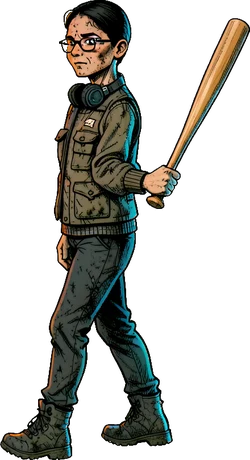
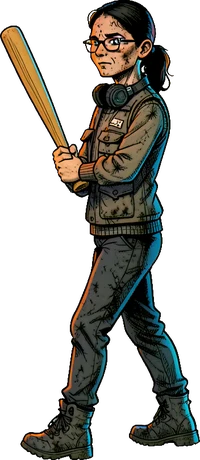
Priya: new bat sprite (Buddy's pick)

diff --git a/js/kit_gen.js b/js/kit_gen.js
@@ -1,1 +1,1 @@
-globalThis.GEN_KIT={"amir":{"base":{"ar":0.378,"cx":0.576,"hip":0.489,"mx":0.816,"my":0.552},"melee":{"ar":0.428,"cx":0.509,"hip":0.431,"mx":0.975,"my":0.165},"blunt":{"ar":0.507,"cx":0.424,"hip":0.356,"mx":0.923,"my":0.161},"pistol":{"ar":0.483,"cx":0.466,"hip":0.387,"mx":0.995,"my":0.17},"rifle":{"ar":0.622,"cx":0.484,"hip":0.451,"mx":0.976,"my":0.159},"bow":{"ar":0.476,"cx":0.459,"hip":0.384,"mx":0.995,"my":0.222},"damned":{"ar":0.376,"cx":0.578,"hip":0.486,"mx":0.971,"my":0.607}},"ana":{"base":{"ar":0.32,"cx":0.533,"hip":0.408,"mx":0.918,"my":0.53},"melee":{"ar":0.487,"cx":0.389,"hip":0.295,"mx":0.924,"my":0.163},"blunt":{"ar":0.45,"cx":0.328,"hip":0.343,"mx":0.768,"my":0.161},"pistol":{"ar":0.48,"cx":0.397,"hip":0.299,"mx":0.995,"my":0.243},"rifle":{"ar":0.52,"cx":0.341,"hip":0.289,"mx":0.858,"my":0.159},"bow":{"ar":0.493,"cx":0.296,"hip":0.3,"mx":0.996,"my":0.209},"damned":{"ar":0.339,"cx":0.503,"hip":0.385,"mx":0.994,"my":0.55}},"bea":{"base":{"ar":0.441,"cx":0.505,"hip":0.468,"mx":0.798,"my":0.554},"melee":{"ar":0.489,"cx":0.452,"hip":0.409,"mx":0.956,"my":0.167},"blunt":{"ar":0.526,"cx":0.426,"hip":0.388,"mx":0.884,"my":0.161},"pistol":{"ar":0.513,"cx":0.451,"hip":0.415,"mx":0.996,"my":0.233},"rifle":{"ar":0.524,"cx":0.404,"hip":0.361,"mx":0.83,"my":0.159},"bow":{"ar":0.522,"cx":0.417,"hip":0.375,"mx":0.996,"my":0.217},"damned":{"ar":0.446,"cx":0.505,"hip":0.463,"mx":0.932,"my":0.6}},"boone":{"base":{"ar":0.396,"cx":0.538,"hip":0.445,"mx":0.857,"my":0.515},"melee":{"ar":0.557,"cx":0.407,"hip":0.359,"mx":0.918,"my":0.163},"blunt":{"ar":0.439,"cx":0.49,"hip":0.406,"mx":0.926,"my":0.167},"pistol":{"ar":0.517,"cx":0.349,"hip":0.311,"mx":0.987,"my":0.161},"rifle":{"ar":0.548,"cx":0.426,"hip":0.329,"mx":0.996,"my":0.189},"bow":{"ar":0.502,"cx":0.413,"hip":0.346,"mx":0.996,"my":0.226},"damned":{"ar":0.396,"cx":0.538,"hip":0.445,"mx":0.94,"my":0.543}},"cal":{"base":{"ar":0.435,"cx":0.551,"hip":0.43,"mx":0.93,"my":0.537},"melee":{"ar":0.53,"cx":0.424,"hip":0.385,"mx":0.984,"my":0.165},"blunt":{"ar":0.509,"cx":0.4,"hip":0.35,"mx":0.893,"my":0.163},"pistol":{"ar":0.58,"cx":0.395,"hip":0.36,"mx":0.996,"my":0.185},"rifle":{"ar":0.565,"cx":0.429,"hip":0.35,"mx":0.996,"my":0.18},"bow":{"ar":0.541,"cx":0.39,"hip":0.378,"mx":0.92,"my":0.198},"damned":{"ar":0.435,"cx":0.441,"hip":0.48,"mx":0.995,"my":0.37}},"cole":{"base":{"ar":0.339,"cx":0.508,"hip":0.436,"mx":0.814,"my":0.543},"melee":{"ar":0.443,"cx":0.4,"hip":0.333,"mx":0.936,"my":0.163},"blunt":{"ar":0.565,"cx":0.414,"hip":0.362,"mx":0.842,"my":0.161},"pistol":{"ar":0.47,"cx":0.42,"hip":0.356,"mx":0.995,"my":0.22},"rifle":{"ar":0.504,"cx":0.395,"hip":0.341,"mx":0.948,"my":0.159},"bow":{"ar":0.537,"cx":0.424,"hip":0.348,"mx":0.996,"my":0.226},"damned":{"ar":0.474,"cx":0.512,"hip":0.381,"mx":0.807,"my":0.357}},"dale":{"base":{"ar":0.376,"cx":0.564,"hip":0.497,"mx":0.994,"my":0.535},"melee":{"ar":0.541,"cx":0.373,"hip":0.329,"mx":0.932,"my":0.161},"blunt":{"ar":0.448,"cx":0.388,"hip":0.33,"mx":0.874,"my":0.163},"pistol":{"ar":0.561,"cx":0.36,"hip":0.318,"mx":0.996,"my":0.202},"rifle":{"ar":0.526,"cx":0.343,"hip":0.318,"mx":0.897,"my":0.159},"bow":{"ar":0.535,"cx":0.268,"hip":0.224,"mx":0.996,"my":0.25},"damned":{"ar":0.37,"cx":0.559,"hip":0.494,"mx":0.994,"my":0.552}},"emil":{"base":{"ar":0.346,"cx":0.528,"hip":0.478,"mx":0.912,"my":0.552},"melee":{"ar":0.522,"cx":0.432,"hip":0.354,"mx":0.883,"my":0.161},"blunt":{"ar":0.526,"cx":0.379,"hip":0.298,"mx":0.802,"my":0.161},"pistol":{"ar":0.543,"cx":0.407,"hip":0.328,"mx":0.992,"my":0.163},"rifle":{"ar":0.511,"cx":0.419,"hip":0.319,"mx":0.86,"my":0.159},"bow":{"ar":0.528,"cx":0.429,"hip":0.44,"mx":0.996,"my":0.252},"damned":{"ar":0.346,"cx":0.528,"hip":0.478,"mx":0.981,"my":0.576}},"grace":{"base":{"ar":0.339,"cx":0.503,"hip":0.41,"mx":0.897,"my":0.541},"melee":{"ar":0.463,"cx":0.405,"hip":0.31,"mx":0.939,"my":0.163},"blunt":{"ar":0.446,"cx":0.383,"hip":0.312,"mx":0.917,"my":0.163},"pistol":{"ar":0.487,"cx":0.367,"hip":0.312,"mx":0.996,"my":0.178},"rifle":{"ar":0.543,"cx":0.352,"hip":0.272,"mx":0.776,"my":0.161},"bow":{"ar":0.463,"cx":0.415,"hip":0.352,"mx":0.995,"my":0.243},"damned":{"ar":0.339,"cx":0.507,"hip":0.417,"mx":0.974,"my":0.578}},"gus":{"base":{"ar":0.326,"cx":0.54,"hip":0.433,"mx":0.927,"my":0.55},"melee":{"ar":0.498,"cx":0.451,"hip":0.358,"mx":0.939,"my":0.163},"blunt":{"ar":0.437,"cx":0.4,"hip":0.323,"mx":0.896,"my":0.163},"pistol":{"ar":0.541,"cx":0.419,"hip":0.333,"mx":0.996,"my":0.204},"rifle":{"ar":0.548,"cx":0.419,"hip":0.341,"mx":0.889,"my":0.159},"bow":{"ar":0.543,"cx":0.42,"hip":0.576,"mx":0.996,"my":0.241},"damned":{"ar":0.326,"cx":0.537,"hip":0.433,"mx":0.947,"my":0.548}},"hank":{"base":{"ar":0.407,"cx":0.427,"hip":0.412,"mx":0.995,"my":0.43},"melee":{"ar":0.485,"cx":0.352,"hip":0.345,"mx":0.964,"my":0.196},"blunt":{"ar":0.559,"cx":0.432,"hip":0.339,"mx":0.961,"my":0.163},"pistol":{"ar":0.524,"cx":0.332,"hip":0.324,"mx":0.996,"my":0.165},"rifle":{"ar":0.476,"cx":0.376,"hip":0.365,"mx":0.895,"my":0.159},"bow":{"ar":0.554,"cx":0.403,"hip":0.369,"mx":0.996,"my":0.224},"damned":{"ar":0.448,"cx":0.48,"hip":0.471,"mx":0.995,"my":0.428}},"isaac":{"base":{"ar":0.367,"cx":0.553,"hip":0.491,"mx":0.888,"my":0.53},"melee":{"ar":0.55,"cx":0.36,"hip":0.514,"mx":0.921,"my":0.161},"blunt":{"ar":0.507,"cx":0.401,"hip":0.356,"mx":0.888,"my":0.163},"pistol":{"ar":0.552,"cx":0.356,"hip":0.512,"mx":0.969,"my":0.159},"rifle":{"ar":0.617,"cx":0.401,"hip":0.349,"mx":0.923,"my":0.159},"bow":{"ar":0.528,"cx":0.403,"hip":0.362,"mx":0.996,"my":0.28},"damned":{"ar":0.365,"cx":0.554,"hip":0.494,"mx":0.923,"my":0.546}},"ivy":{"base":{"ar":0.378,"cx":0.518,"hip":0.431,"mx":0.805,"my":0.533},"melee":{"ar":0.493,"cx":0.537,"hip":0.441,"mx":0.996,"my":0.233},"blunt":{"ar":0.439,"cx":0.446,"hip":0.371,"mx":0.896,"my":0.165},"pistol":{"ar":0.548,"cx":0.484,"hip":0.397,"mx":0.996,"my":0.213},"rifle":{"ar":0.498,"cx":0.432,"hip":0.332,"mx":0.996,"my":0.165},"bow":{"ar":0.485,"cx":0.374,"hip":0.327,"mx":0.996,"my":0.261},"damned":{"ar":0.378,"cx":0.518,"hip":0.431,"mx":0.805,"my":0.539}},"jo":{"base":{"ar":0.276,"cx":0.504,"hip":0.402,"mx":0.843,"my":0.535},"melee":{"ar":0.43,"cx":0.354,"hip":0.288,"mx":0.96,"my":0.2},"blunt":{"ar":0.457,"cx":0.302,"hip":0.243,"mx":0.81,"my":0.161},"pistol":{"ar":0.487,"cx":0.312,"hip":0.254,"mx":0.996,"my":0.183},"rifle":{"ar":0.5,"cx":0.37,"hip":0.278,"mx":0.996,"my":0.222},"bow":{"ar":0.509,"cx":0.476,"hip":0.397,"mx":0.996,"my":0.222},"damned":{"ar":0.289,"cx":0.526,"hip":0.436,"mx":0.94,"my":0.543}},"june":{"base":{"ar":0.307,"cx":0.525,"hip":0.468,"mx":0.915,"my":0.517},"melee":{"ar":0.487,"cx":0.362,"hip":0.326,"mx":0.933,"my":0.161},"blunt":{"ar":0.465,"cx":0.334,"hip":0.285,"mx":0.874,"my":0.163},"pistol":{"ar":0.437,"cx":0.338,"hip":0.308,"mx":0.995,"my":0.217},"rifle":{"ar":0.528,"cx":0.346,"hip":0.305,"mx":0.84,"my":0.159},"bow":{"ar":0.541,"cx":0.44,"hip":0.402,"mx":0.996,"my":0.224},"damned":{"ar":0.361,"cx":0.566,"hip":0.512,"mx":0.994,"my":0.598}},"kez":{"base":{"ar":0.313,"cx":0.497,"hip":0.451,"mx":0.882,"my":0.548},"melee":{"ar":0.433,"cx":0.354,"hip":0.387,"mx":0.92,"my":0.163},"blunt":{"ar":0.496,"cx":0.316,"hip":0.338,"mx":0.838,"my":0.161},"pistol":{"ar":0.476,"cx":0.41,"hip":0.384,"mx":0.986,"my":0.161},"rifle":{"ar":0.561,"cx":0.409,"hip":0.36,"mx":0.996,"my":0.178},"bow":{"ar":0.58,"cx":0.379,"hip":0.378,"mx":0.996,"my":0.228},"damned":{"ar":0.317,"cx":0.497,"hip":0.459,"mx":0.938,"my":0.583}},"kim":{"base":{"ar":0.341,"cx":0.541,"hip":0.433,"mx":0.911,"my":0.543},"melee":{"ar":0.476,"cx":0.398,"hip":0.352,"mx":0.954,"my":0.163},"blunt":{"ar":0.467,"cx":0.398,"hip":0.316,"mx":0.898,"my":0.165},"pistol":{"ar":0.502,"cx":0.377,"hip":0.333,"mx":0.996,"my":0.211},"rifle":{"ar":0.504,"cx":0.349,"hip":0.297,"mx":0.996,"my":0.198},"bow":{"ar":0.513,"cx":0.375,"hip":0.309,"mx":0.996,"my":0.261},"damned":{"ar":0.407,"cx":0.529,"hip":0.439,"mx":0.995,"my":0.607}},"lena":{"base":{"ar":0.333,"cx":0.523,"hip":0.49,"mx":0.882,"my":0.528},"melee":{"ar":0.472,"cx":0.462,"hip":0.327,"mx":0.912,"my":0.163},"blunt":{"ar":0.45,"cx":0.387,"hip":0.362,"mx":0.865,"my":0.161},"pistol":{"ar":0.435,"cx":0.391,"hip":0.3,"mx":0.995,"my":0.17},"rifle":{"ar":0.5,"cx":0.388,"hip":0.291,"mx":0.722,"my":0.159},"bow":{"ar":0.57,"cx":0.264,"hip":0.233,"mx":0.996,"my":0.22},"damned":{"ar":0.335,"cx":0.526,"hip":0.487,"mx":0.968,"my":0.565}},"lupe":{"base":{"ar":0.304,"cx":0.571,"hip":0.507,"mx":0.993,"my":0.533},"melee":{"ar":0.45,"cx":0.343,"hip":0.29,"mx":0.932,"my":0.163},"blunt":{"ar":0.396,"cx":0.437,"hip":0.588,"mx":0.951,"my":0.172},"pistol":{"ar":0.461,"cx":0.292,"hip":0.443,"mx":0.995,"my":0.202},"rifle":{"ar":0.583,"cx":0.468,"hip":0.623,"mx":0.959,"my":0.159},"bow":{"ar":0.457,"cx":0.34,"hip":0.495,"mx":0.995,"my":0.224},"damned":{"ar":0.359,"cx":0.494,"hip":0.436,"mx":0.994,"my":0.589}},"mae":{"base":{"ar":0.311,"cx":0.538,"hip":0.685,"mx":0.993,"my":0.546},"melee":{"ar":0.476,"cx":0.393,"hip":0.347,"mx":0.945,"my":0.172},"blunt":{"ar":0.448,"cx":0.379,"hip":0.529,"mx":0.898,"my":0.161},"pistol":{"ar":0.515,"cx":0.363,"hip":0.321,"mx":0.962,"my":0.159},"rifle":{"ar":0.572,"cx":0.382,"hip":0.357,"mx":0.996,"my":0.185},"bow":{"ar":0.507,"cx":0.378,"hip":0.528,"mx":0.996,"my":0.246},"damned":{"ar":0.352,"cx":0.475,"hip":0.623,"mx":0.994,"my":0.598}},"marta":{"base":{"ar":0.324,"cx":0.488,"hip":0.463,"mx":0.993,"my":0.502},"melee":{"ar":0.446,"cx":0.454,"hip":0.371,"mx":0.873,"my":0.163},"blunt":{"ar":0.426,"cx":0.384,"hip":0.403,"mx":0.77,"my":0.161},"pistol":{"ar":0.491,"cx":0.381,"hip":0.363,"mx":0.996,"my":0.202},"rifle":{"ar":0.476,"cx":0.388,"hip":0.416,"mx":0.995,"my":0.163},"bow":{"ar":0.524,"cx":0.382,"hip":0.398,"mx":0.996,"my":0.237},"damned":{"ar":0.346,"cx":0.457,"hip":0.434,"mx":0.994,"my":0.57}},"nia":{"base":{"ar":0.337,"cx":0.532,"hip":0.458,"mx":0.858,"my":0.559},"melee":{"ar":0.457,"cx":0.39,"hip":0.338,"mx":0.905,"my":0.163},"blunt":{"ar":0.389,"cx":0.458,"hip":0.391,"mx":0.994,"my":0.407},"pistol":{"ar":0.493,"cx":0.291,"hip":0.26,"mx":0.996,"my":0.165},"rifle":{"ar":0.498,"cx":0.393,"hip":0.31,"mx":0.978,"my":0.159},"bow":{"ar":0.667,"cx":0.383,"hip":0.322,"mx":0.997,"my":0.285},"damned":{"ar":0.337,"cx":0.532,"hip":0.458,"mx":0.974,"my":0.583}},"owen":{"base":{"ar":0.383,"cx":0.527,"hip":0.443,"mx":0.892,"my":0.502},"melee":{"ar":0.43,"cx":0.478,"hip":0.374,"mx":0.965,"my":0.172},"blunt":{"ar":0.498,"cx":0.409,"hip":0.341,"mx":0.878,"my":0.163},"pistol":{"ar":0.539,"cx":0.4,"hip":0.363,"mx":0.996,"my":0.193},"rifle":{"ar":0.543,"cx":0.368,"hip":0.316,"mx":0.996,"my":0.167},"bow":{"ar":0.511,"cx":0.433,"hip":0.362,"mx":0.996,"my":0.285},"damned":{"ar":0.52,"cx":0.373,"hip":0.318,"mx":0.669,"my":0.609}},"priya":{"base":{"ar":0.376,"cx":0.5,"hip":0.457,"mx":0.798,"my":0.537},"melee":{"ar":0.476,"cx":0.392,"hip":0.429,"mx":0.913,"my":0.163},"blunt":{"ar":0.543,"cx":0.342,"hip":0.372,"mx":0.916,"my":0.163},"pistol":{"ar":0.476,"cx":0.392,"hip":0.374,"mx":0.995,"my":0.165},"rifle":{"ar":0.487,"cx":0.346,"hip":0.281,"mx":0.888,"my":0.161},"bow":{"ar":0.53,"cx":0.366,"hip":0.262,"mx":0.996,"my":0.25},"damned":{"ar":0.376,"cx":0.5,"hip":0.457,"mx":0.948,"my":0.587}},"rosa":{"base":{"ar":0.374,"cx":0.585,"hip":0.477,"mx":0.994,"my":0.554},"melee":{"ar":0.489,"cx":0.431,"hip":0.364,"mx":0.933,"my":0.165},"blunt":{"ar":0.42,"cx":0.518,"hip":0.425,"mx":0.995,"my":0.339},"pistol":{"ar":0.511,"cx":0.36,"hip":0.515,"mx":0.996,"my":0.189},"rifle":{"ar":0.563,"cx":0.335,"hip":0.282,"mx":0.861,"my":0.159},"bow":{"ar":0.517,"cx":0.397,"hip":0.319,"mx":0.996,"my":0.257},"damned":{"ar":0.409,"cx":0.535,"hip":0.436,"mx":0.995,"my":0.58}},"ruth":{"base":{"ar":0.324,"cx":0.543,"hip":0.47,"mx":0.993,"my":0.52},"melee":{"ar":0.439,"cx":0.31,"hip":0.351,"mx":0.876,"my":0.161},"blunt":{"ar":0.487,"cx":0.321,"hip":0.366,"mx":0.786,"my":0.161},"pistol":{"ar":0.511,"cx":0.302,"hip":0.455,"mx":0.996,"my":0.176},"rifle":{"ar":0.537,"cx":0.36,"hip":0.324,"mx":0.753,"my":0.17},"bow":{"ar":0.507,"cx":0.386,"hip":0.416,"mx":0.996,"my":0.233},"damned":{"ar":0.407,"cx":0.435,"hip":0.38,"mx":0.995,"my":0.596}},"sam":{"base":{"ar":0.391,"cx":0.496,"hip":0.428,"mx":0.961,"my":0.476},"melee":{"ar":0.485,"cx":0.389,"hip":0.341,"mx":0.906,"my":0.161},"blunt":{"ar":0.435,"cx":0.445,"hip":0.385,"mx":0.995,"my":0.291},"pistol":{"ar":0.461,"cx":0.422,"hip":0.33,"mx":0.995,"my":0.167},"rifle":{"ar":0.552,"cx":0.329,"hip":0.268,"mx":0.78,"my":0.163},"bow":{"ar":0.55,"cx":0.365,"hip":0.32,"mx":0.996,"my":0.222},"damned":{"ar":0.404,"cx":0.516,"hip":0.452,"mx":0.968,"my":0.493}},"sita":{"base":{"ar":0.309,"cx":0.599,"hip":0.746,"mx":0.993,"my":0.5},"melee":{"ar":0.53,"cx":0.32,"hip":0.475,"mx":0.951,"my":0.165},"blunt":{"ar":0.472,"cx":0.389,"hip":0.544,"mx":0.917,"my":0.163},"pistol":{"ar":0.563,"cx":0.301,"hip":0.456,"mx":0.996,"my":0.202},"rifle":{"ar":0.53,"cx":0.337,"hip":0.311,"mx":0.721,"my":0.167},"bow":{"ar":0.57,"cx":0.311,"hip":0.466,"mx":0.996,"my":0.241},"damned":{"ar":0.383,"cx":0.48,"hip":0.631,"mx":0.994,"my":0.565}},"tasha":{"base":{"ar":0.307,"cx":0.499,"hip":0.404,"mx":0.794,"my":0.537},"melee":{"ar":0.522,"cx":0.418,"hip":0.325,"mx":0.879,"my":0.176},"blunt":{"ar":0.504,"cx":0.335,"hip":0.276,"mx":0.853,"my":0.161},"pistol":{"ar":0.543,"cx":0.4,"hip":0.312,"mx":0.892,"my":0.17},"rifle":{"ar":0.524,"cx":0.364,"hip":0.295,"mx":0.838,"my":0.159},"bow":{"ar":0.554,"cx":0.378,"hip":0.286,"mx":0.996,"my":0.257},"damned":{"ar":0.415,"cx":0.573,"hip":0.461,"mx":0.895,"my":0.563}},"theo":{"base":{"ar":0.365,"cx":0.574,"hip":0.506,"mx":0.923,"my":0.522},"melee":{"ar":0.47,"cx":0.416,"hip":0.361,"mx":0.894,"my":0.163},"blunt":{"ar":0.43,"cx":0.485,"hip":0.424,"mx":0.934,"my":0.167},"pistol":{"ar":0.552,"cx":0.307,"hip":0.272,"mx":0.996,"my":0.176},"rifle":{"ar":0.53,"cx":0.342,"hip":0.275,"mx":0.746,"my":0.165},"bow":{"ar":0.537,"cx":0.399,"hip":0.348,"mx":0.996,"my":0.209},"damned":{"ar":0.37,"cx":0.565,"hip":0.5,"mx":0.994,"my":0.557}},"tomas":{"base":{"ar":0.291,"cx":0.496,"hip":0.418,"mx":0.888,"my":0.546},"melee":{"ar":0.487,"cx":0.392,"hip":0.353,"mx":0.897,"my":0.161},"blunt":{"ar":0.38,"cx":0.377,"hip":0.314,"mx":0.903,"my":0.163},"pistol":{"ar":0.472,"cx":0.402,"hip":0.359,"mx":0.995,"my":0.163},"rifle":{"ar":0.52,"cx":0.369,"hip":0.322,"mx":0.736,"my":0.159},"bow":{"ar":0.465,"cx":0.403,"hip":0.36,"mx":0.995,"my":0.22},"damned":{"ar":0.296,"cx":0.489,"hip":0.404,"mx":0.993,"my":0.574}},"vic":{"base":{"ar":0.374,"cx":0.565,"hip":0.471,"mx":0.919,"my":0.539},"melee":{"ar":0.504,"cx":0.393,"hip":0.345,"mx":0.892,"my":0.161},"blunt":{"ar":0.459,"cx":0.467,"hip":0.384,"mx":0.905,"my":0.165},"pistol":{"ar":0.5,"cx":0.397,"hip":0.348,"mx":0.996,"my":0.235},"rifle":{"ar":0.52,"cx":0.351,"hip":0.314,"mx":0.996,"my":0.176},"bow":{"ar":0.526,"cx":0.411,"hip":0.368,"mx":0.996,"my":0.25},"damned":{"ar":0.376,"cx":0.569,"hip":0.468,"mx":0.936,"my":0.554}},"wen":{"base":{"ar":0.317,"cx":0.554,"hip":0.479,"mx":0.945,"my":0.53},"melee":{"ar":0.48,"cx":0.378,"hip":0.312,"mx":0.878,"my":0.161},"blunt":{"ar":0.376,"cx":0.37,"hip":0.405,"mx":0.971,"my":0.285},"pistol":{"ar":0.504,"cx":0.403,"hip":0.341,"mx":0.996,"my":0.176},"rifle":{"ar":0.485,"cx":0.345,"hip":0.377,"mx":0.816,"my":0.159},"bow":{"ar":0.493,"cx":0.381,"hip":0.396,"mx":0.996,"my":0.233},"damned":{"ar":0.346,"cx":0.586,"hip":0.522,"mx":0.994,"my":0.589}}};
+globalThis.GEN_KIT={"amir":{"base":{"ar":0.378,"cx":0.576,"hip":0.489,"mx":0.816,"my":0.552},"melee":{"ar":0.428,"cx":0.509,"hip":0.431,"mx":0.975,"my":0.165},"blunt":{"ar":0.507,"cx":0.424,"hip":0.356,"mx":0.923,"my":0.161},"pistol":{"ar":0.483,"cx":0.466,"hip":0.387,"mx":0.995,"my":0.17},"rifle":{"ar":0.622,"cx":0.484,"hip":0.451,"mx":0.976,"my":0.159},"bow":{"ar":0.476,"cx":0.459,"hip":0.384,"mx":0.995,"my":0.222},"damned":{"ar":0.376,"cx":0.578,"hip":0.486,"mx":0.971,"my":0.607}},"ana":{"base":{"ar":0.32,"cx":0.533,"hip":0.408,"mx":0.918,"my":0.53},"melee":{"ar":0.487,"cx":0.389,"hip":0.295,"mx":0.924,"my":0.163},"blunt":{"ar":0.45,"cx":0.328,"hip":0.343,"mx":0.768,"my":0.161},"pistol":{"ar":0.48,"cx":0.397,"hip":0.299,"mx":0.995,"my":0.243},"rifle":{"ar":0.52,"cx":0.341,"hip":0.289,"mx":0.858,"my":0.159},"bow":{"ar":0.493,"cx":0.296,"hip":0.3,"mx":0.996,"my":0.209},"damned":{"ar":0.339,"cx":0.503,"hip":0.385,"mx":0.994,"my":0.55}},"bea":{"base":{"ar":0.441,"cx":0.505,"hip":0.468,"mx":0.798,"my":0.554},"melee":{"ar":0.489,"cx":0.452,"hip":0.409,"mx":0.956,"my":0.167},"blunt":{"ar":0.526,"cx":0.426,"hip":0.388,"mx":0.884,"my":0.161},"pistol":{"ar":0.513,"cx":0.451,"hip":0.415,"mx":0.996,"my":0.233},"rifle":{"ar":0.524,"cx":0.404,"hip":0.361,"mx":0.83,"my":0.159},"bow":{"ar":0.522,"cx":0.417,"hip":0.375,"mx":0.996,"my":0.217},"damned":{"ar":0.446,"cx":0.505,"hip":0.463,"mx":0.932,"my":0.6}},"boone":{"base":{"ar":0.396,"cx":0.538,"hip":0.445,"mx":0.857,"my":0.515},"melee":{"ar":0.557,"cx":0.407,"hip":0.359,"mx":0.918,"my":0.163},"blunt":{"ar":0.439,"cx":0.49,"hip":0.406,"mx":0.926,"my":0.167},"pistol":{"ar":0.517,"cx":0.349,"hip":0.311,"mx":0.987,"my":0.161},"rifle":{"ar":0.548,"cx":0.426,"hip":0.329,"mx":0.996,"my":0.189},"bow":{"ar":0.502,"cx":0.413,"hip":0.346,"mx":0.996,"my":0.226},"damned":{"ar":0.396,"cx":0.538,"hip":0.445,"mx":0.94,"my":0.543}},"cal":{"base":{"ar":0.435,"cx":0.551,"hip":0.43,"mx":0.93,"my":0.537},"melee":{"ar":0.53,"cx":0.424,"hip":0.385,"mx":0.984,"my":0.165},"blunt":{"ar":0.509,"cx":0.4,"hip":0.35,"mx":0.893,"my":0.163},"pistol":{"ar":0.58,"cx":0.395,"hip":0.36,"mx":0.996,"my":0.185},"rifle":{"ar":0.565,"cx":0.429,"hip":0.35,"mx":0.996,"my":0.18},"bow":{"ar":0.541,"cx":0.39,"hip":0.378,"mx":0.92,"my":0.198},"damned":{"ar":0.435,"cx":0.441,"hip":0.48,"mx":0.995,"my":0.37}},"cole":{"base":{"ar":0.339,"cx":0.508,"hip":0.436,"mx":0.814,"my":0.543},"melee":{"ar":0.443,"cx":0.4,"hip":0.333,"mx":0.936,"my":0.163},"blunt":{"ar":0.565,"cx":0.414,"hip":0.362,"mx":0.842,"my":0.161},"pistol":{"ar":0.47,"cx":0.42,"hip":0.356,"mx":0.995,"my":0.22},"rifle":{"ar":0.504,"cx":0.395,"hip":0.341,"mx":0.948,"my":0.159},"bow":{"ar":0.537,"cx":0.424,"hip":0.348,"mx":0.996,"my":0.226},"damned":{"ar":0.474,"cx":0.512,"hip":0.381,"mx":0.807,"my":0.357}},"dale":{"base":{"ar":0.376,"cx":0.564,"hip":0.497,"mx":0.994,"my":0.535},"melee":{"ar":0.541,"cx":0.373,"hip":0.329,"mx":0.932,"my":0.161},"blunt":{"ar":0.448,"cx":0.388,"hip":0.33,"mx":0.874,"my":0.163},"pistol":{"ar":0.561,"cx":0.36,"hip":0.318,"mx":0.996,"my":0.202},"rifle":{"ar":0.526,"cx":0.343,"hip":0.318,"mx":0.897,"my":0.159},"bow":{"ar":0.535,"cx":0.268,"hip":0.224,"mx":0.996,"my":0.25},"damned":{"ar":0.37,"cx":0.559,"hip":0.494,"mx":0.994,"my":0.552}},"emil":{"base":{"ar":0.346,"cx":0.528,"hip":0.478,"mx":0.912,"my":0.552},"melee":{"ar":0.522,"cx":0.432,"hip":0.354,"mx":0.883,"my":0.161},"blunt":{"ar":0.526,"cx":0.379,"hip":0.298,"mx":0.802,"my":0.161},"pistol":{"ar":0.543,"cx":0.407,"hip":0.328,"mx":0.992,"my":0.163},"rifle":{"ar":0.511,"cx":0.419,"hip":0.319,"mx":0.86,"my":0.159},"bow":{"ar":0.528,"cx":0.429,"hip":0.44,"mx":0.996,"my":0.252},"damned":{"ar":0.346,"cx":0.528,"hip":0.478,"mx":0.981,"my":0.576}},"grace":{"base":{"ar":0.339,"cx":0.503,"hip":0.41,"mx":0.897,"my":0.541},"melee":{"ar":0.463,"cx":0.405,"hip":0.31,"mx":0.939,"my":0.163},"blunt":{"ar":0.446,"cx":0.383,"hip":0.312,"mx":0.917,"my":0.163},"pistol":{"ar":0.487,"cx":0.367,"hip":0.312,"mx":0.996,"my":0.178},"rifle":{"ar":0.543,"cx":0.352,"hip":0.272,"mx":0.776,"my":0.161},"bow":{"ar":0.463,"cx":0.415,"hip":0.352,"mx":0.995,"my":0.243},"damned":{"ar":0.339,"cx":0.507,"hip":0.417,"mx":0.974,"my":0.578}},"gus":{"base":{"ar":0.326,"cx":0.54,"hip":0.433,"mx":0.927,"my":0.55},"melee":{"ar":0.498,"cx":0.451,"hip":0.358,"mx":0.939,"my":0.163},"blunt":{"ar":0.437,"cx":0.4,"hip":0.323,"mx":0.896,"my":0.163},"pistol":{"ar":0.541,"cx":0.419,"hip":0.333,"mx":0.996,"my":0.204},"rifle":{"ar":0.548,"cx":0.419,"hip":0.341,"mx":0.889,"my":0.159},"bow":{"ar":0.543,"cx":0.42,"hip":0.576,"mx":0.996,"my":0.241},"damned":{"ar":0.326,"cx":0.537,"hip":0.433,"mx":0.947,"my":0.548}},"hank":{"base":{"ar":0.407,"cx":0.427,"hip":0.412,"mx":0.995,"my":0.43},"melee":{"ar":0.485,"cx":0.352,"hip":0.345,"mx":0.964,"my":0.196},"blunt":{"ar":0.559,"cx":0.432,"hip":0.339,"mx":0.961,"my":0.163},"pistol":{"ar":0.524,"cx":0.332,"hip":0.324,"mx":0.996,"my":0.165},"rifle":{"ar":0.476,"cx":0.376,"hip":0.365,"mx":0.895,"my":0.159},"bow":{"ar":0.554,"cx":0.403,"hip":0.369,"mx":0.996,"my":0.224},"damned":{"ar":0.448,"cx":0.48,"hip":0.471,"mx":0.995,"my":0.428}},"isaac":{"base":{"ar":0.367,"cx":0.553,"hip":0.491,"mx":0.888,"my":0.53},"melee":{"ar":0.55,"cx":0.36,"hip":0.514,"mx":0.921,"my":0.161},"blunt":{"ar":0.507,"cx":0.401,"hip":0.356,"mx":0.888,"my":0.163},"pistol":{"ar":0.552,"cx":0.356,"hip":0.512,"mx":0.969,"my":0.159},"rifle":{"ar":0.617,"cx":0.401,"hip":0.349,"mx":0.923,"my":0.159},"bow":{"ar":0.528,"cx":0.403,"hip":0.362,"mx":0.996,"my":0.28},"damned":{"ar":0.365,"cx":0.554,"hip":0.494,"mx":0.923,"my":0.546}},"ivy":{"base":{"ar":0.378,"cx":0.518,"hip":0.431,"mx":0.805,"my":0.533},"melee":{"ar":0.493,"cx":0.537,"hip":0.441,"mx":0.996,"my":0.233},"blunt":{"ar":0.439,"cx":0.446,"hip":0.371,"mx":0.896,"my":0.165},"pistol":{"ar":0.548,"cx":0.484,"hip":0.397,"mx":0.996,"my":0.213},"rifle":{"ar":0.498,"cx":0.432,"hip":0.332,"mx":0.996,"my":0.165},"bow":{"ar":0.485,"cx":0.374,"hip":0.327,"mx":0.996,"my":0.261},"damned":{"ar":0.378,"cx":0.518,"hip":0.431,"mx":0.805,"my":0.539}},"jo":{"base":{"ar":0.276,"cx":0.504,"hip":0.402,"mx":0.843,"my":0.535},"melee":{"ar":0.43,"cx":0.354,"hip":0.288,"mx":0.96,"my":0.2},"blunt":{"ar":0.457,"cx":0.302,"hip":0.243,"mx":0.81,"my":0.161},"pistol":{"ar":0.487,"cx":0.312,"hip":0.254,"mx":0.996,"my":0.183},"rifle":{"ar":0.5,"cx":0.37,"hip":0.278,"mx":0.996,"my":0.222},"bow":{"ar":0.509,"cx":0.476,"hip":0.397,"mx":0.996,"my":0.222},"damned":{"ar":0.289,"cx":0.526,"hip":0.436,"mx":0.94,"my":0.543}},"june":{"base":{"ar":0.307,"cx":0.525,"hip":0.468,"mx":0.915,"my":0.517},"melee":{"ar":0.487,"cx":0.362,"hip":0.326,"mx":0.933,"my":0.161},"blunt":{"ar":0.465,"cx":0.334,"hip":0.285,"mx":0.874,"my":0.163},"pistol":{"ar":0.437,"cx":0.338,"hip":0.308,"mx":0.995,"my":0.217},"rifle":{"ar":0.528,"cx":0.346,"hip":0.305,"mx":0.84,"my":0.159},"bow":{"ar":0.541,"cx":0.44,"hip":0.402,"mx":0.996,"my":0.224},"damned":{"ar":0.361,"cx":0.566,"hip":0.512,"mx":0.994,"my":0.598}},"kez":{"base":{"ar":0.313,"cx":0.497,"hip":0.451,"mx":0.882,"my":0.548},"melee":{"ar":0.433,"cx":0.354,"hip":0.387,"mx":0.92,"my":0.163},"blunt":{"ar":0.496,"cx":0.316,"hip":0.338,"mx":0.838,"my":0.161},"pistol":{"ar":0.476,"cx":0.41,"hip":0.384,"mx":0.986,"my":0.161},"rifle":{"ar":0.561,"cx":0.409,"hip":0.36,"mx":0.996,"my":0.178},"bow":{"ar":0.58,"cx":0.379,"hip":0.378,"mx":0.996,"my":0.228},"damned":{"ar":0.317,"cx":0.497,"hip":0.459,"mx":0.938,"my":0.583}},"kim":{"base":{"ar":0.341,"cx":0.541,"hip":0.433,"mx":0.911,"my":0.543},"melee":{"ar":0.476,"cx":0.398,"hip":0.352,"mx":0.954,"my":0.163},"blunt":{"ar":0.467,"cx":0.398,"hip":0.316,"mx":0.898,"my":0.165},"pistol":{"ar":0.502,"cx":0.377,"hip":0.333,"mx":0.996,"my":0.211},"rifle":{"ar":0.504,"cx":0.349,"hip":0.297,"mx":0.996,"my":0.198},"bow":{"ar":0.513,"cx":0.375,"hip":0.309,"mx":0.996,"my":0.261},"damned":{"ar":0.407,"cx":0.529,"hip":0.439,"mx":0.995,"my":0.607}},"lena":{"base":{"ar":0.333,"cx":0.523,"hip":0.49,"mx":0.882,"my":0.528},"melee":{"ar":0.472,"cx":0.462,"hip":0.327,"mx":0.912,"my":0.163},"blunt":{"ar":0.45,"cx":0.387,"hip":0.362,"mx":0.865,"my":0.161},"pistol":{"ar":0.435,"cx":0.391,"hip":0.3,"mx":0.995,"my":0.17},"rifle":{"ar":0.5,"cx":0.388,"hip":0.291,"mx":0.722,"my":0.159},"bow":{"ar":0.57,"cx":0.264,"hip":0.233,"mx":0.996,"my":0.22},"damned":{"ar":0.335,"cx":0.526,"hip":0.487,"mx":0.968,"my":0.565}},"lupe":{"base":{"ar":0.304,"cx":0.571,"hip":0.507,"mx":0.993,"my":0.533},"melee":{"ar":0.45,"cx":0.343,"hip":0.29,"mx":0.932,"my":0.163},"blunt":{"ar":0.396,"cx":0.437,"hip":0.588,"mx":0.951,"my":0.172},"pistol":{"ar":0.461,"cx":0.292,"hip":0.443,"mx":0.995,"my":0.202},"rifle":{"ar":0.583,"cx":0.468,"hip":0.623,"mx":0.959,"my":0.159},"bow":{"ar":0.457,"cx":0.34,"hip":0.495,"mx":0.995,"my":0.224},"damned":{"ar":0.359,"cx":0.494,"hip":0.436,"mx":0.994,"my":0.589}},"mae":{"base":{"ar":0.311,"cx":0.538,"hip":0.685,"mx":0.993,"my":0.546},"melee":{"ar":0.476,"cx":0.393,"hip":0.347,"mx":0.945,"my":0.172},"blunt":{"ar":0.448,"cx":0.379,"hip":0.529,"mx":0.898,"my":0.161},"pistol":{"ar":0.515,"cx":0.363,"hip":0.321,"mx":0.962,"my":0.159},"rifle":{"ar":0.572,"cx":0.382,"hip":0.357,"mx":0.996,"my":0.185},"bow":{"ar":0.507,"cx":0.378,"hip":0.528,"mx":0.996,"my":0.246},"damned":{"ar":0.352,"cx":0.475,"hip":0.623,"mx":0.994,"my":0.598}},"marta":{"base":{"ar":0.324,"cx":0.488,"hip":0.463,"mx":0.993,"my":0.502},"melee":{"ar":0.446,"cx":0.454,"hip":0.371,"mx":0.873,"my":0.163},"blunt":{"ar":0.426,"cx":0.384,"hip":0.403,"mx":0.77,"my":0.161},"pistol":{"ar":0.491,"cx":0.381,"hip":0.363,"mx":0.996,"my":0.202},"rifle":{"ar":0.476,"cx":0.388,"hip":0.416,"mx":0.995,"my":0.163},"bow":{"ar":0.524,"cx":0.382,"hip":0.398,"mx":0.996,"my":0.237},"damned":{"ar":0.346,"cx":0.457,"hip":0.434,"mx":0.994,"my":0.57}},"nia":{"base":{"ar":0.337,"cx":0.532,"hip":0.458,"mx":0.858,"my":0.559},"melee":{"ar":0.457,"cx":0.39,"hip":0.338,"mx":0.905,"my":0.163},"blunt":{"ar":0.389,"cx":0.458,"hip":0.391,"mx":0.994,"my":0.407},"pistol":{"ar":0.493,"cx":0.291,"hip":0.26,"mx":0.996,"my":0.165},"rifle":{"ar":0.498,"cx":0.393,"hip":0.31,"mx":0.978,"my":0.159},"bow":{"ar":0.667,"cx":0.383,"hip":0.322,"mx":0.997,"my":0.285},"damned":{"ar":0.337,"cx":0.532,"hip":0.458,"mx":0.974,"my":0.583}},"owen":{"base":{"ar":0.383,"cx":0.527,"hip":0.443,"mx":0.892,"my":0.502},"melee":{"ar":0.43,"cx":0.478,"hip":0.374,"mx":0.965,"my":0.172},"blunt":{"ar":0.498,"cx":0.409,"hip":0.341,"mx":0.878,"my":0.163},"pistol":{"ar":0.539,"cx":0.4,"hip":0.363,"mx":0.996,"my":0.193},"rifle":{"ar":0.543,"cx":0.368,"hip":0.316,"mx":0.996,"my":0.167},"bow":{"ar":0.511,"cx":0.433,"hip":0.362,"mx":0.996,"my":0.285},"damned":{"ar":0.52,"cx":0.373,"hip":0.318,"mx":0.669,"my":0.609}},"priya":{"base":{"ar":0.376,"cx":0.5,"hip":0.457,"mx":0.798,"my":0.537},"melee":{"ar":0.476,"cx":0.392,"hip":0.429,"mx":0.913,"my":0.163},"blunt":{"ar":0.435,"cx":0.543,"hip":0.6,"mx":0.86,"my":0.163},"pistol":{"ar":0.476,"cx":0.392,"hip":0.374,"mx":0.995,"my":0.165},"rifle":{"ar":0.487,"cx":0.346,"hip":0.281,"mx":0.888,"my":0.161},"bow":{"ar":0.53,"cx":0.366,"hip":0.262,"mx":0.996,"my":0.25},"damned":{"ar":0.376,"cx":0.5,"hip":0.457,"mx":0.948,"my":0.587}},"rosa":{"base":{"ar":0.374,"cx":0.585,"hip":0.477,"mx":0.994,"my":0.554},"melee":{"ar":0.489,"cx":0.431,"hip":0.364,"mx":0.933,"my":0.165},"blunt":{"ar":0.42,"cx":0.518,"hip":0.425,"mx":0.995,"my":0.339},"pistol":{"ar":0.511,"cx":0.36,"hip":0.515,"mx":0.996,"my":0.189},"rifle":{"ar":0.563,"cx":0.335,"hip":0.282,"mx":0.861,"my":0.159},"bow":{"ar":0.517,"cx":0.397,"hip":0.319,"mx":0.996,"my":0.257},"damned":{"ar":0.409,"cx":0.535,"hip":0.436,"mx":0.995,"my":0.58}},"ruth":{"base":{"ar":0.324,"cx":0.543,"hip":0.47,"mx":0.993,"my":0.52},"melee":{"ar":0.439,"cx":0.31,"hip":0.351,"mx":0.876,"my":0.161},"blunt":{"ar":0.487,"cx":0.321,"hip":0.366,"mx":0.786,"my":0.161},"pistol":{"ar":0.511,"cx":0.302,"hip":0.455,"mx":0.996,"my":0.176},"rifle":{"ar":0.537,"cx":0.36,"hip":0.324,"mx":0.753,"my":0.17},"bow":{"ar":0.507,"cx":0.386,"hip":0.416,"mx":0.996,"my":0.233},"damned":{"ar":0.407,"cx":0.435,"hip":0.38,"mx":0.995,"my":0.596}},"sam":{"base":{"ar":0.391,"cx":0.496,"hip":0.428,"mx":0.961,"my":0.476},"melee":{"ar":0.485,"cx":0.389,"hip":0.341,"mx":0.906,"my":0.161},"blunt":{"ar":0.435,"cx":0.445,"hip":0.385,"mx":0.995,"my":0.291},"pistol":{"ar":0.461,"cx":0.422,"hip":0.33,"mx":0.995,"my":0.167},"rifle":{"ar":0.552,"cx":0.329,"hip":0.268,"mx":0.78,"my":0.163},"bow":{"ar":0.55,"cx":0.365,"hip":0.32,"mx":0.996,"my":0.222},"damned":{"ar":0.404,"cx":0.516,"hip":0.452,"mx":0.968,"my":0.493}},"sita":{"base":{"ar":0.309,"cx":0.599,"hip":0.746,"mx":0.993,"my":0.5},"melee":{"ar":0.53,"cx":0.32,"hip":0.475,"mx":0.951,"my":0.165},"blunt":{"ar":0.472,"cx":0.389,"hip":0.544,"mx":0.917,"my":0.163},"pistol":{"ar":0.563,"cx":0.301,"hip":0.456,"mx":0.996,"my":0.202},"rifle":{"ar":0.53,"cx":0.337,"hip":0.311,"mx":0.721,"my":0.167},"bow":{"ar":0.57,"cx":0.311,"hip":0.466,"mx":0.996,"my":0.241},"damned":{"ar":0.383,"cx":0.48,"hip":0.631,"mx":0.994,"my":0.565}},"tasha":{"base":{"ar":0.307,"cx":0.499,"hip":0.404,"mx":0.794,"my":0.537},"melee":{"ar":0.522,"cx":0.418,"hip":0.325,"mx":0.879,"my":0.176},"blunt":{"ar":0.504,"cx":0.335,"hip":0.276,"mx":0.853,"my":0.161},"pistol":{"ar":0.543,"cx":0.4,"hip":0.312,"mx":0.892,"my":0.17},"rifle":{"ar":0.524,"cx":0.364,"hip":0.295,"mx":0.838,"my":0.159},"bow":{"ar":0.554,"cx":0.378,"hip":0.286,"mx":0.996,"my":0.257},"damned":{"ar":0.415,"cx":0.573,"hip":0.461,"mx":0.895,"my":0.563}},"theo":{"base":{"ar":0.365,"cx":0.574,"hip":0.506,"mx":0.923,"my":0.522},"melee":{"ar":0.47,"cx":0.416,"hip":0.361,"mx":0.894,"my":0.163},"blunt":{"ar":0.43,"cx":0.485,"hip":0.424,"mx":0.934,"my":0.167},"pistol":{"ar":0.552,"cx":0.307,"hip":0.272,"mx":0.996,"my":0.176},"rifle":{"ar":0.53,"cx":0.342,"hip":0.275,"mx":0.746,"my":0.165},"bow":{"ar":0.537,"cx":0.399,"hip":0.348,"mx":0.996,"my":0.209},"damned":{"ar":0.37,"cx":0.565,"hip":0.5,"mx":0.994,"my":0.557}},"tomas":{"base":{"ar":0.291,"cx":0.496,"hip":0.418,"mx":0.888,"my":0.546},"melee":{"ar":0.487,"cx":0.392,"hip":0.353,"mx":0.897,"my":0.161},"blunt":{"ar":0.38,"cx":0.377,"hip":0.314,"mx":0.903,"my":0.163},"pistol":{"ar":0.472,"cx":0.402,"hip":0.359,"mx":0.995,"my":0.163},"rifle":{"ar":0.52,"cx":0.369,"hip":0.322,"mx":0.736,"my":0.159},"bow":{"ar":0.465,"cx":0.403,"hip":0.36,"mx":0.995,"my":0.22},"damned":{"ar":0.296,"cx":0.489,"hip":0.404,"mx":0.993,"my":0.574}},"vic":{"base":{"ar":0.374,"cx":0.565,"hip":0.471,"mx":0.919,"my":0.539},"melee":{"ar":0.504,"cx":0.393,"hip":0.345,"mx":0.892,"my":0.161},"blunt":{"ar":0.459,"cx":0.467,"hip":0.384,"mx":0.905,"my":0.165},"pistol":{"ar":0.5,"cx":0.397,"hip":0.348,"mx":0.996,"my":0.235},"rifle":{"ar":0.52,"cx":0.351,"hip":0.314,"mx":0.996,"my":0.176},"bow":{"ar":0.526,"cx":0.411,"hip":0.368,"mx":0.996,"my":0.25},"damned":{"ar":0.376,"cx":0.569,"hip":0.468,"mx":0.936,"my":0.554}},"wen":{"base":{"ar":0.317,"cx":0.554,"hip":0.479,"mx":0.945,"my":0.53},"melee":{"ar":0.48,"cx":0.378,"hip":0.312,"mx":0.878,"my":0.161},"blunt":{"ar":0.376,"cx":0.37,"hip":0.405,"mx":0.971,"my":0.285},"pistol":{"ar":0.504,"cx":0.403,"hip":0.341,"mx":0.996,"my":0.176},"rifle":{"ar":0.485,"cx":0.345,"hip":0.377,"mx":0.816,"my":0.159},"bow":{"ar":0.493,"cx":0.381,"hip":0.396,"mx":0.996,"my":0.233},"damned":{"ar":0.346,"cx":0.586,"hip":0.522,"mx":0.994,"my":0.589}}};
